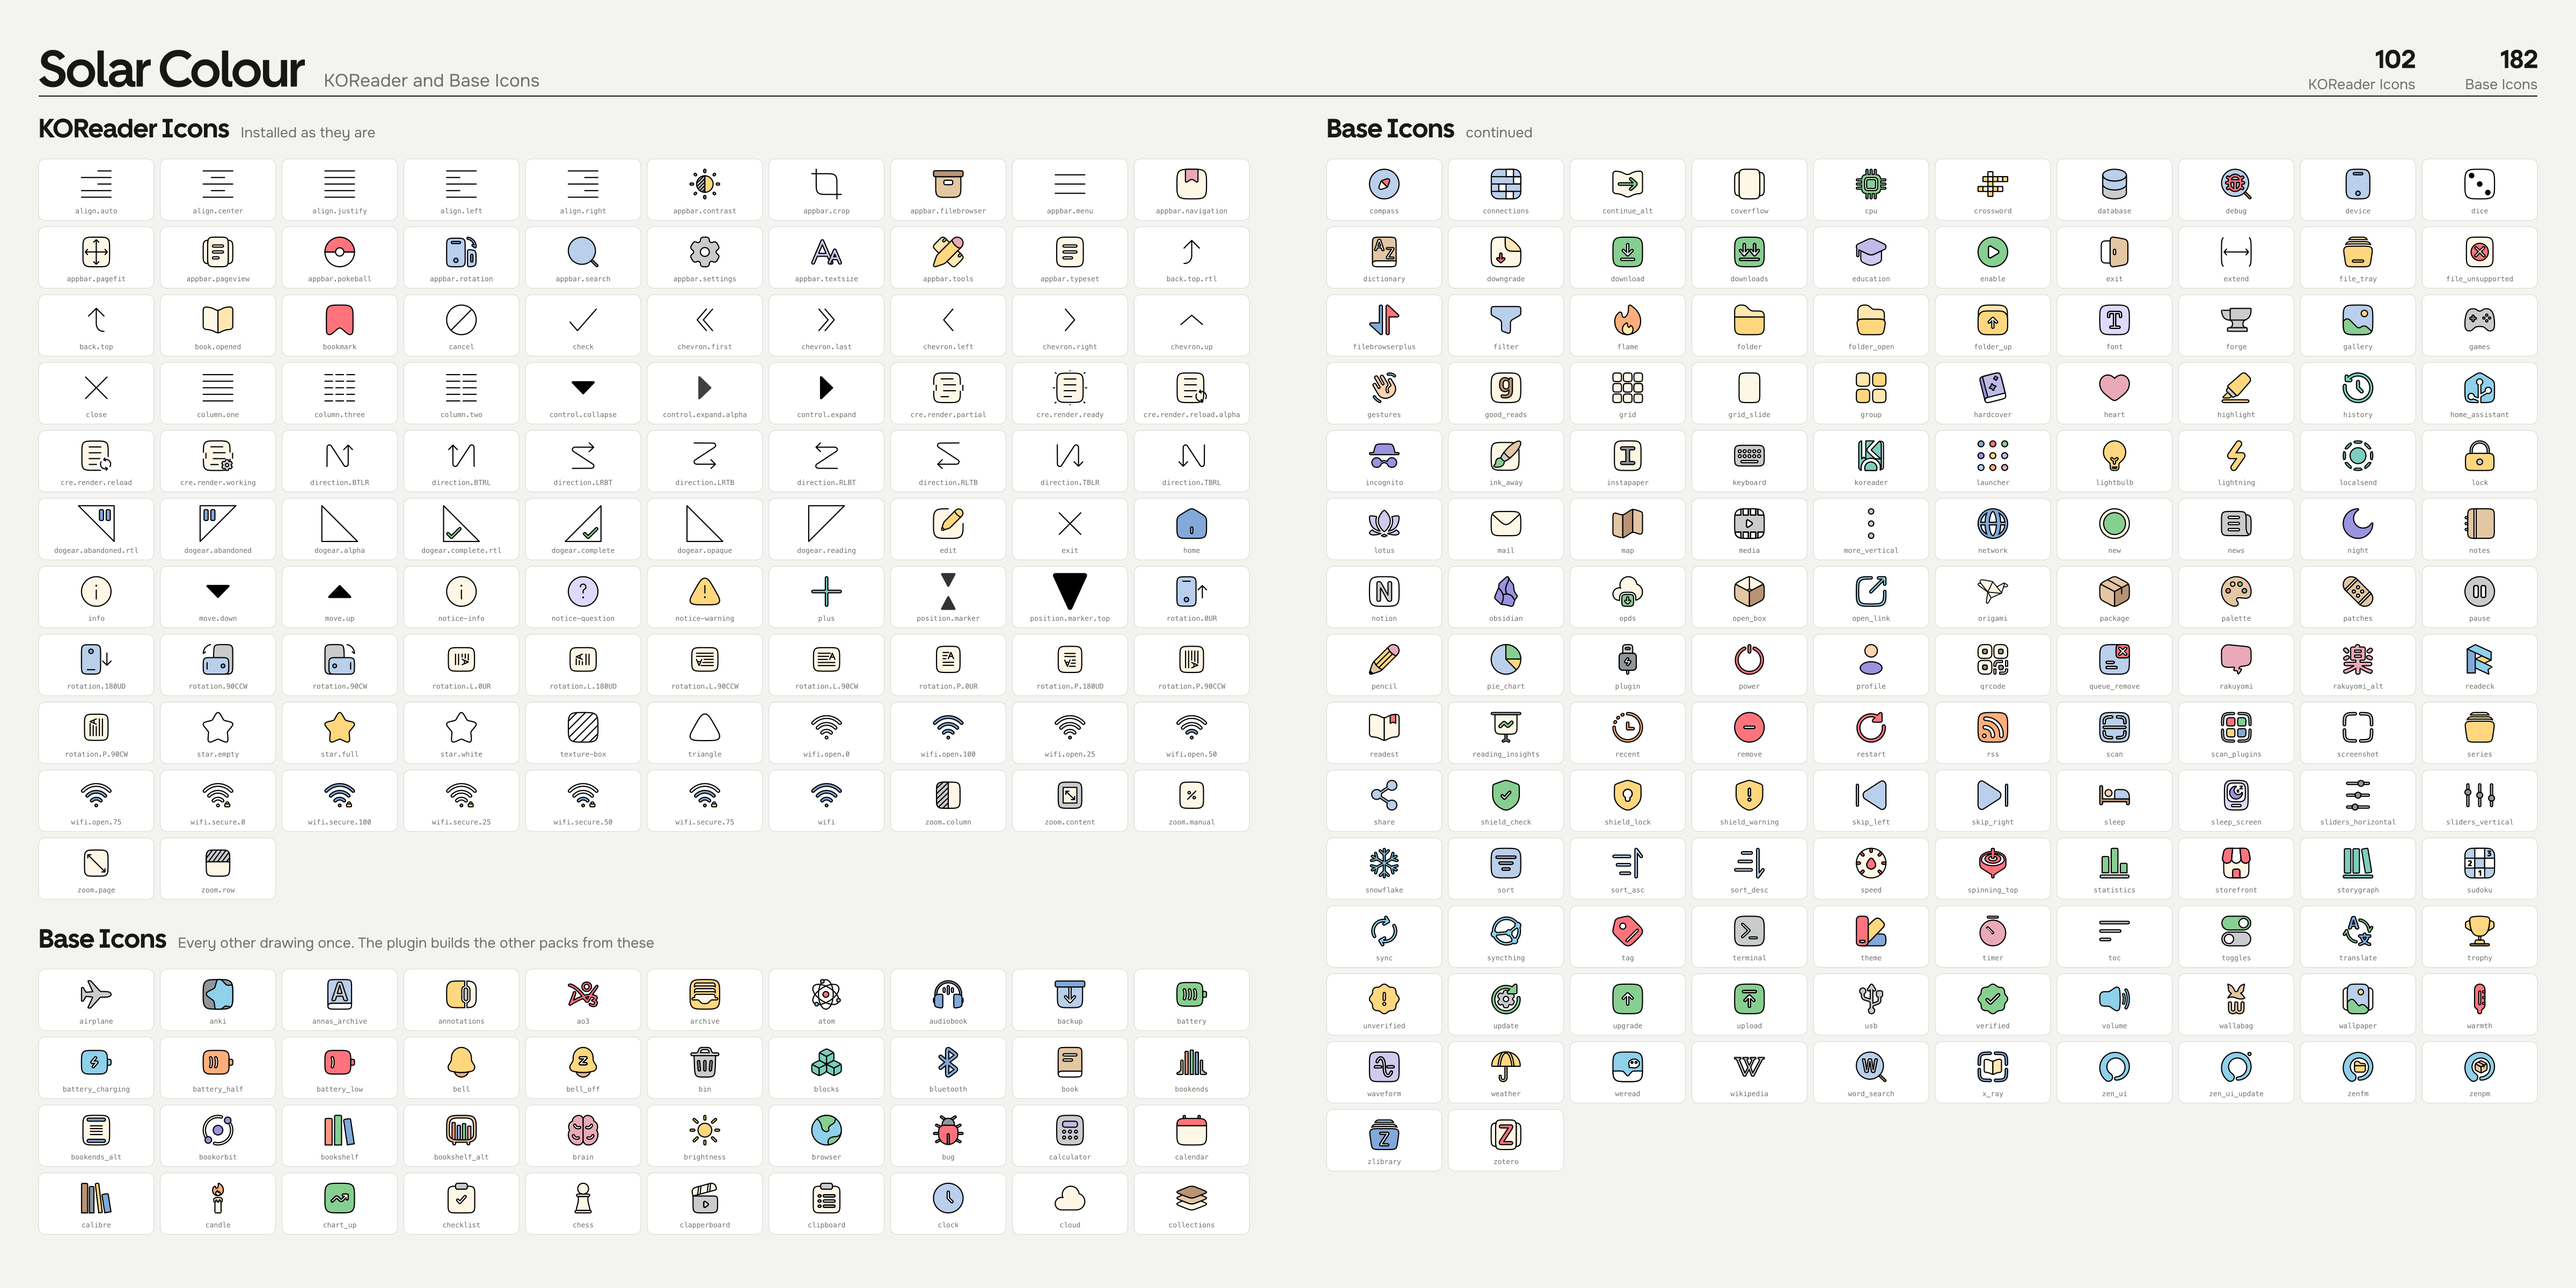
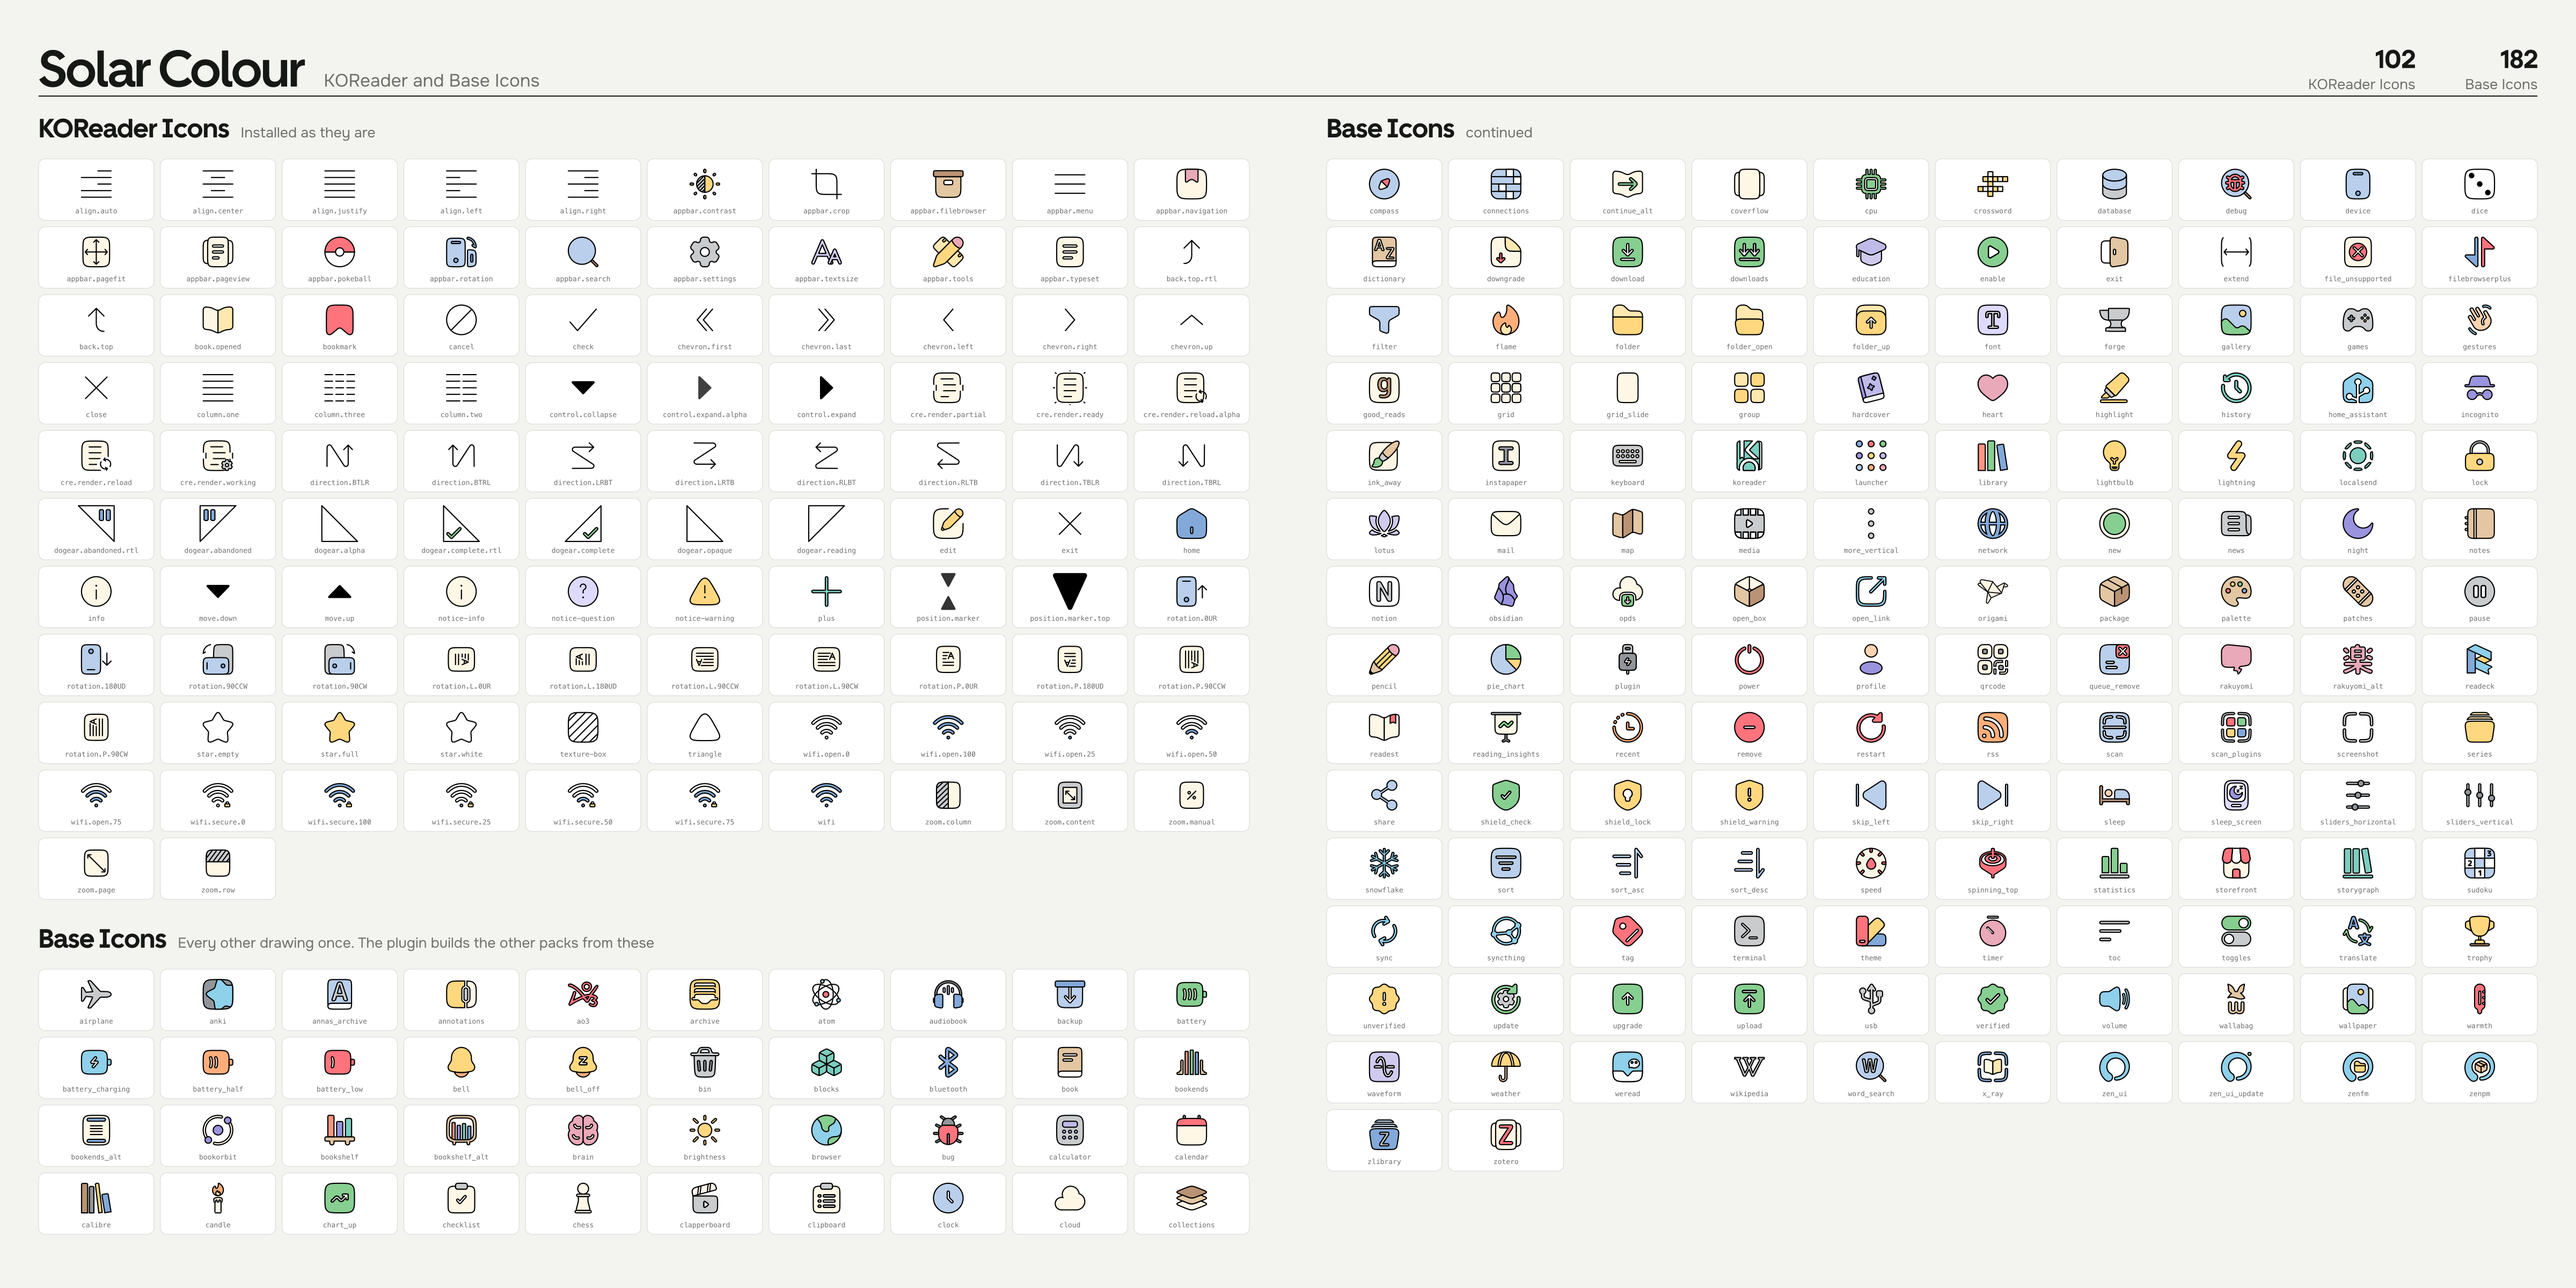
Release v1.2.1

diff --git a/Icon names.md b/Icon names.md
@@ -23,8 +23,8 @@ Each style has two folders: `KOReader Icons` (KOReader's own icons, installed as
 | `Base: blocks`                 | ZenOS `blocks`                                                                               |                                                                                     |
 | `Base: bluetooth`              | ZenOS `quick_bluetooth`                                                                      |                                                                                     |
 | `Base: book`                   | ZenOS `book_closed`, ZenOS `reference`                                                       |                                                                                     |
-| `Base: bookshelf`              | ZenOS `library`, ZenOS `tab_books`                                                           |                                                                                     |
-| `Base: bookshelf_alt`          | ZenOS `bookshelf`                                                                            | Project: Title `folder` (enlarged onto Project: Title's 250 × 500 canvas)           |
+| `Base: bookshelf`              | ZenOS `bookshelf`, Bookshelf `bookshelf`                                                     |                                                                                     |
+| `Base: bookshelf_alt`          | Project: Title `folder` (enlarged onto Project: Title's 250 × 500 canvas)                       |                                                                                     |
 | `Base: brain`                  | ZenOS `lookup.ai`                                                                            |                                                                                     |
 | `Base: brightness`             | ZenOS `brightness`, ZenOS `sun`                                                              |                                                                                     |
 | `Base: browser`                | ZenOS `globe`, ZenOS `browser`, ZenOS `sources`                                              |                                                                                     |
@@ -58,7 +58,6 @@ Each style has two folders: `KOReader Icons` (KOReader's own icons, installed as
 | `Base: enable`                 | ZenOS `enable`                                                                               |                                                                                     |
 | `Base: exit`                   | SimpleUI `exit`, ZenOS `quick_exit`, ZenOS `tab_exit`                                        |                                                                                     |
 | `Base: extend`                 | ZenOS `lookup.extend`                                                                        |                                                                                     |
-| `Base: file_tray`              | SimpleUI `library`                                                                           |                                                                                     |
 | `Base: file_unsupported`       |                                                                                              | Project: Title `file-unsupported` (enlarged onto Project: Title's 250 × 500 canvas) |
 | `Base: filebrowserplus`        | ZenOS `filebrowserplus`                                                                      |                                                                                     |
 | `Base: filter`                 | ZenOS `filter`                                                                               |                                                                                     |
@@ -78,6 +77,7 @@ Each style has two folders: `KOReader Icons` (KOReader's own icons, installed as
 | `Base: history`                | Project: Title `history`, SimpleUI `history`, ZenOS `tab_history`                            |                                                                                     |
 | `Base: incognito`              | ZenOS `quick_incognito`                                                                      |                                                                                     |
 | `Base: launcher`               | ZenOS `app_launcher`                                                                         |                                                                                     |
+| `Base: library`                | SimpleUI `library`, ZenOS `library`, ZenOS `tab_books`                                       |                                                                                     |
 | `Base: lightbulb`              | SimpleUI `frontlight`, ZenOS `lightbulb`                                                     |                                                                                     |
 | `Base: lightning`              | ZenOS `lightning`                                                                            |                                                                                     |
 | `Base: localsend`              | ZenOS `quick_localsend`                                                                      |                                                                                     |
@@ -200,8 +200,8 @@ Each style has two folders: `KOReader Icons` (KOReader's own icons, installed as
 | `Base: blocks` | ZenOS `blocks` |  |
 | `Base: bluetooth` | ZenOS `quick_bluetooth` |  |
 | `Base: book` | ZenOS `book_closed`, ZenOS `reference` |  |
-| `Base: bookshelf` | ZenOS `library`, ZenOS `tab_books` |  |
-| `Base: bookshelf_alt` | ZenOS `bookshelf` | Project: Title `folder` (enlarged onto Project: Title's 250 × 500 canvas) |
+| `Base: bookshelf` | ZenOS `bookshelf`, Bookshelf `bookshelf` | |
+| `Base: bookshelf_alt` | Project: Title `folder` (enlarged onto Project: Title's 250 × 500 canvas) | |
 | `Base: brain` | ZenOS `lookup.ai` |  |
 | `Base: brightness` | ZenOS `brightness`, ZenOS `sun` |  |
 | `Base: browser` | ZenOS `globe`, ZenOS `browser`, ZenOS `sources` |  |
@@ -235,7 +235,6 @@ Each style has two folders: `KOReader Icons` (KOReader's own icons, installed as
 | `Base: enable` | ZenOS `enable` |  |
 | `Base: exit` | SimpleUI `exit`, ZenOS `quick_exit`, ZenOS `tab_exit` |  |
 | `Base: extend` | ZenOS `lookup.extend` |  |
-| `Base: file_tray` | SimpleUI `library` |  |
 | `Base: file_unsupported` |  | Project: Title `file-unsupported` (enlarged onto Project: Title's 250 × 500 canvas) |
 | `Base: filebrowserplus` | ZenOS `filebrowserplus` |  |
 | `Base: filter` | ZenOS `filter` |  |
@@ -255,6 +254,7 @@ Each style has two folders: `KOReader Icons` (KOReader's own icons, installed as
 | `Base: history` | Project: Title `history`, SimpleUI `history`, ZenOS `tab_history` |  |
 | `Base: incognito` | ZenOS `quick_incognito` |  |
 | `Base: launcher` | ZenOS `app_launcher` |  |
+| `Base: library` | SimpleUI `library`, ZenOS `library`, ZenOS `tab_books` |  |
 | `Base: lightbulb` | SimpleUI `frontlight`, ZenOS `lightbulb` |  |
 | `Base: lightning` | ZenOS `lightning` |  |
 | `Base: localsend` | ZenOS `quick_localsend` |  |
